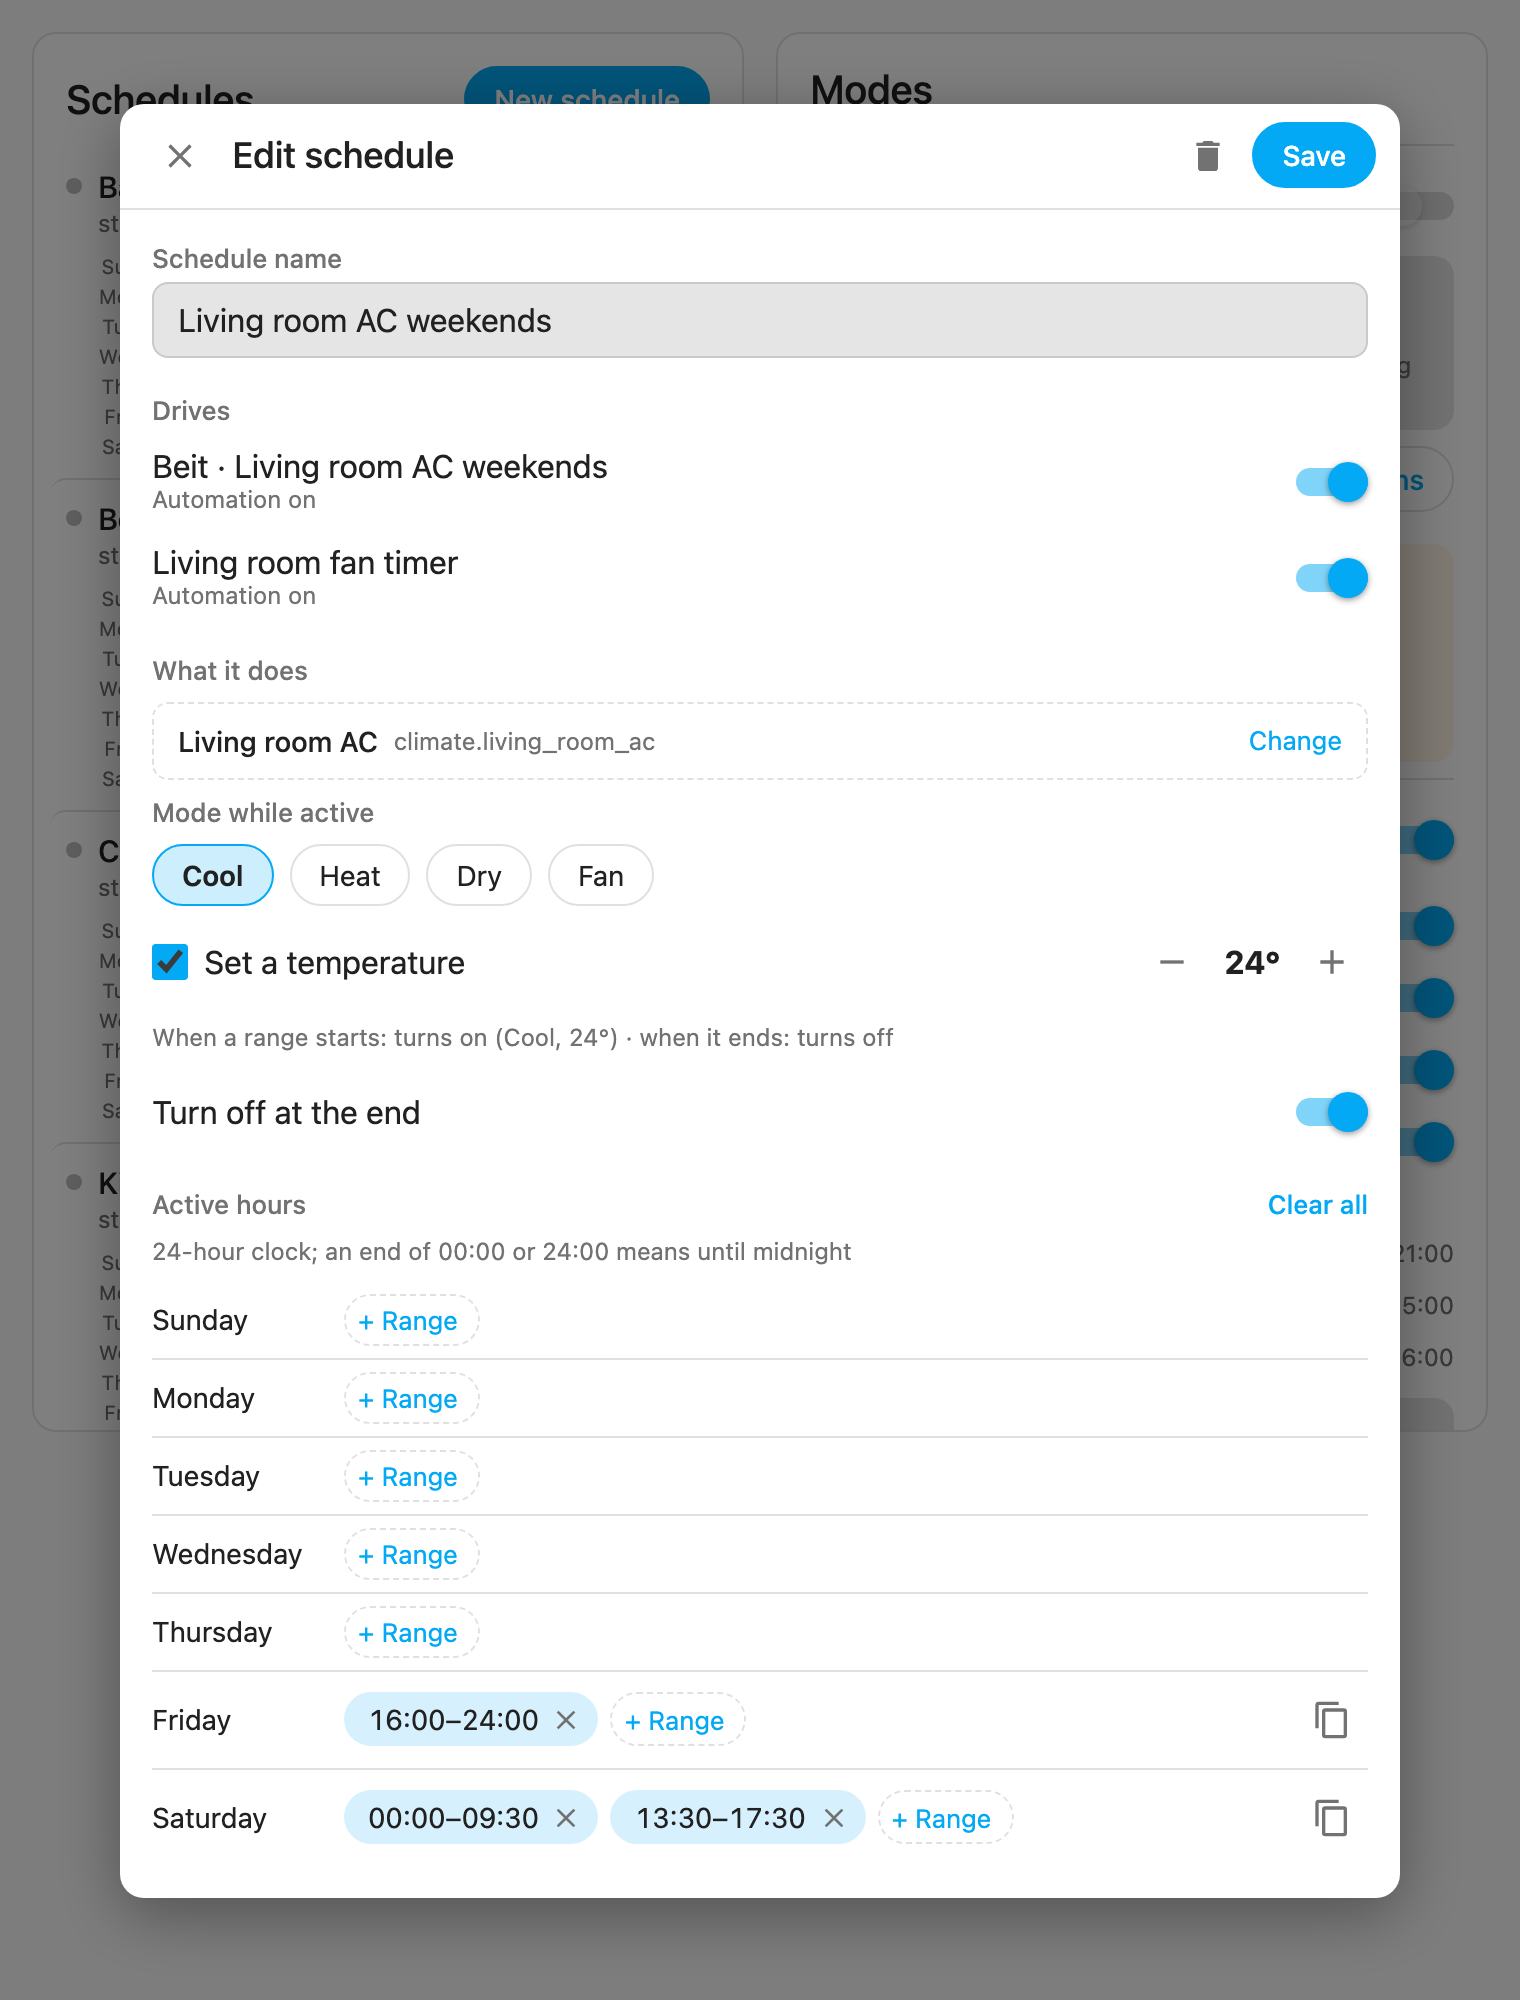
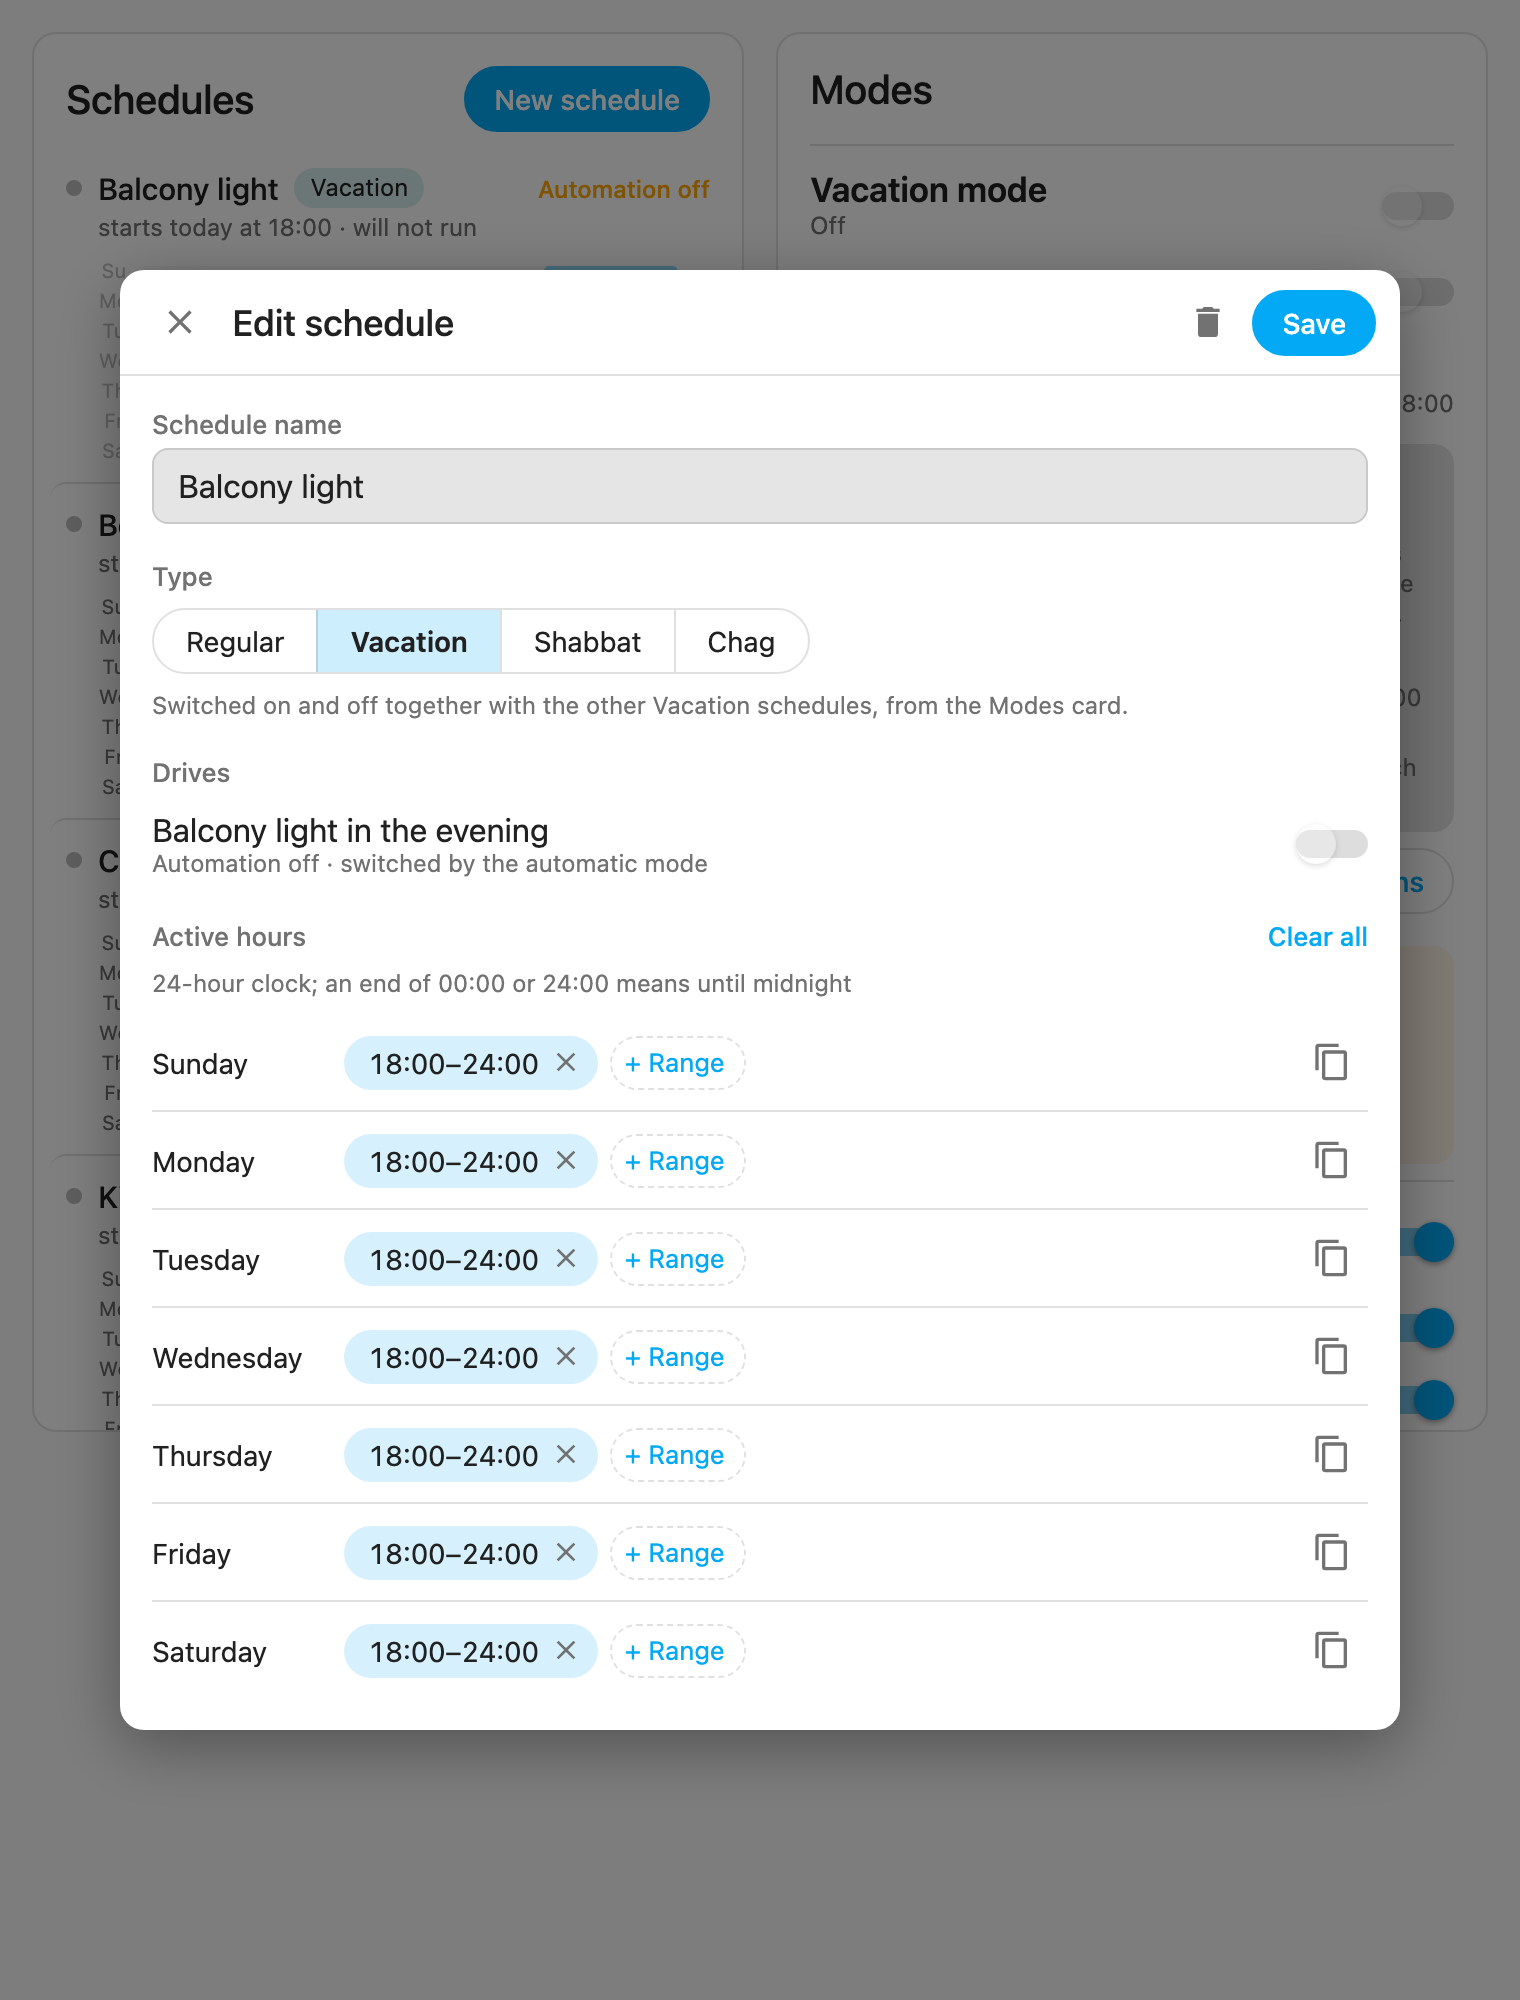
Show vacation in the README and its screenshots
The generic mode rules (automatic, back to manual, finishing schedules)
now sit under Modes, with Shabbat and chag after vacation as their own
subsection. The screenshots show a vacation schedule and an automatic
vacation (?demo=vacation in the preview), and the schedule editor with
its mode choice.

diff --git a/dev/card-preview.html b/dev/card-preview.html
@@ -94,6 +94,15 @@
     setInterval(() => { for (; seen < fake.calls.length; seen++) log(JSON.stringify(fake.calls[seen])); }, 300);
     setInterval(() => { fake.tick(); push(); }, 60000);
     fake.onChange(() => push());
+    // ?demo=vacation: the balcony light in vacation mode, with an automatic vacation in ten days (for the screenshots).
+    if (q.get('demo') === 'vacation') {
+      const m = await import('../dist/schedule-helper-card.js');
+      const ids = ['schedule.balcony_light', 'automation.balcony_light_evening'];
+      await m.setModeMembership(fake, 'vacation', ids, true);
+      const at = (days, hour) => { const d = new Date(); d.setDate(d.getDate() + days); d.setHours(hour, 0, 0, 0); return m.localStamp(d); };
+      await m.enableAuto(fake, 'vacation', { range: { from: at(10, 8), to: at(17, 18) } });
+      await fake.callService('automation', 'turn_off', {}, { entity_id: [ids[1]] }); // off until the trip, as the card would
+    }
   }
 
   // HA calls setConfig more than once, and sets hass before and after: do the same here.

diff --git a/README.md b/README.md
@@ -98,7 +98,7 @@ Hebrew, the cards are in Hebrew and the whole layout is right to left.
 
 | Editing a schedule | A new schedule for an air conditioner |
 |:-:|:-:|
-| <img src="https://raw.githubusercontent.com/yybd/schedule-helper-card/main/docs/editor.png" alt="The editor: name, Shabbat mode, the automations it drives and the week" width="380"> | <img src="https://raw.githubusercontent.com/yybd/schedule-helper-card/main/docs/new-schedule.png" alt="A new schedule: the device, HVAC mode, temperature and turn off at the end" width="380"> |
+| <img src="https://raw.githubusercontent.com/yybd/schedule-helper-card/main/docs/editor.png" alt="The editor: name, the mode (regular, vacation, Shabbat, chag), the automation it drives and the week" width="380"> | <img src="https://raw.githubusercontent.com/yybd/schedule-helper-card/main/docs/new-schedule.png" alt="A new schedule: the device, HVAC mode, temperature and turn off at the end" width="380"> |
 
 | Dark theme, fixed height | On a phone |
 |:-:|:-:|
@@ -289,8 +289,14 @@ differs.
   or *Automatic*. The card says when an automatic mode comes on next. While a mode is automatic its switches are
   locked, here and in the schedule editor, since the automatic mode would switch them back at its next start; choose
   *Manual* to switch it yourself (any user can, once the automatic mode exists).
-  - Choosing *Automatic* puts the switches where the calendar says: off during the week, on during the mode.
+  - Choosing *Automatic* puts the switches where the mode's dates (or the calendar) say: off outside the mode, on
+    during it.
   - A mode left on while *Manual* does not switch off by itself; the card says so.
+  - Going back to *Manual* disables the automatic automation. It is never deleted, so changes you made to it in Home
+    Assistant survive.
+- **Each mode switches off only once its schedules have finished** (at most 6 hours later), so no device is cut off
+  in the middle of a range.
+
 ### Vacation
 
 The schedules you want only while you are away: lights in the evening, the water heater on the morning you come
@@ -321,12 +327,10 @@ For homes that keep them. They appear in the Modes card, and as a choice in the 
 - **Automatic chag** (optional, needs the core Jewish Calendar integration). The same for chag mode: on erev chag at
   the time you choose, off after the chag ends. A chag that falls on Shabbat is covered by Shabbat mode, since nothing
   in the calendar says so a day ahead.
-- **Going back to manual** disables its automation. It is never deleted, so changes you made to it in Home
-  Assistant survive.
 - **A schedule that starts too early.** A Shabbat range that begins on Friday before the mode comes on does not run:
   its automation is still off when the range begins. The card names such schedules under *Automatic*.
 
-### A typical week with automatic Shabbat
+#### A typical week with automatic Shabbat
 
 The automatic mode never switches a device itself. It switches the mode's **automations** on and off, and each
 automation switches its device by its own schedule.
@@ -340,7 +344,7 @@ automation switches its device by its own schedule.
 
 Automatic chag works the same way, from erev chag to the end of the chag.
 
-### Setting up Jewish Calendar
+#### Setting up Jewish Calendar
 
 Jewish Calendar is part of Home Assistant, so there is nothing to download, but it has to be added once. The card
 cannot add it for you; when it is missing, the Modes card shows a link to add it (for administrators).
